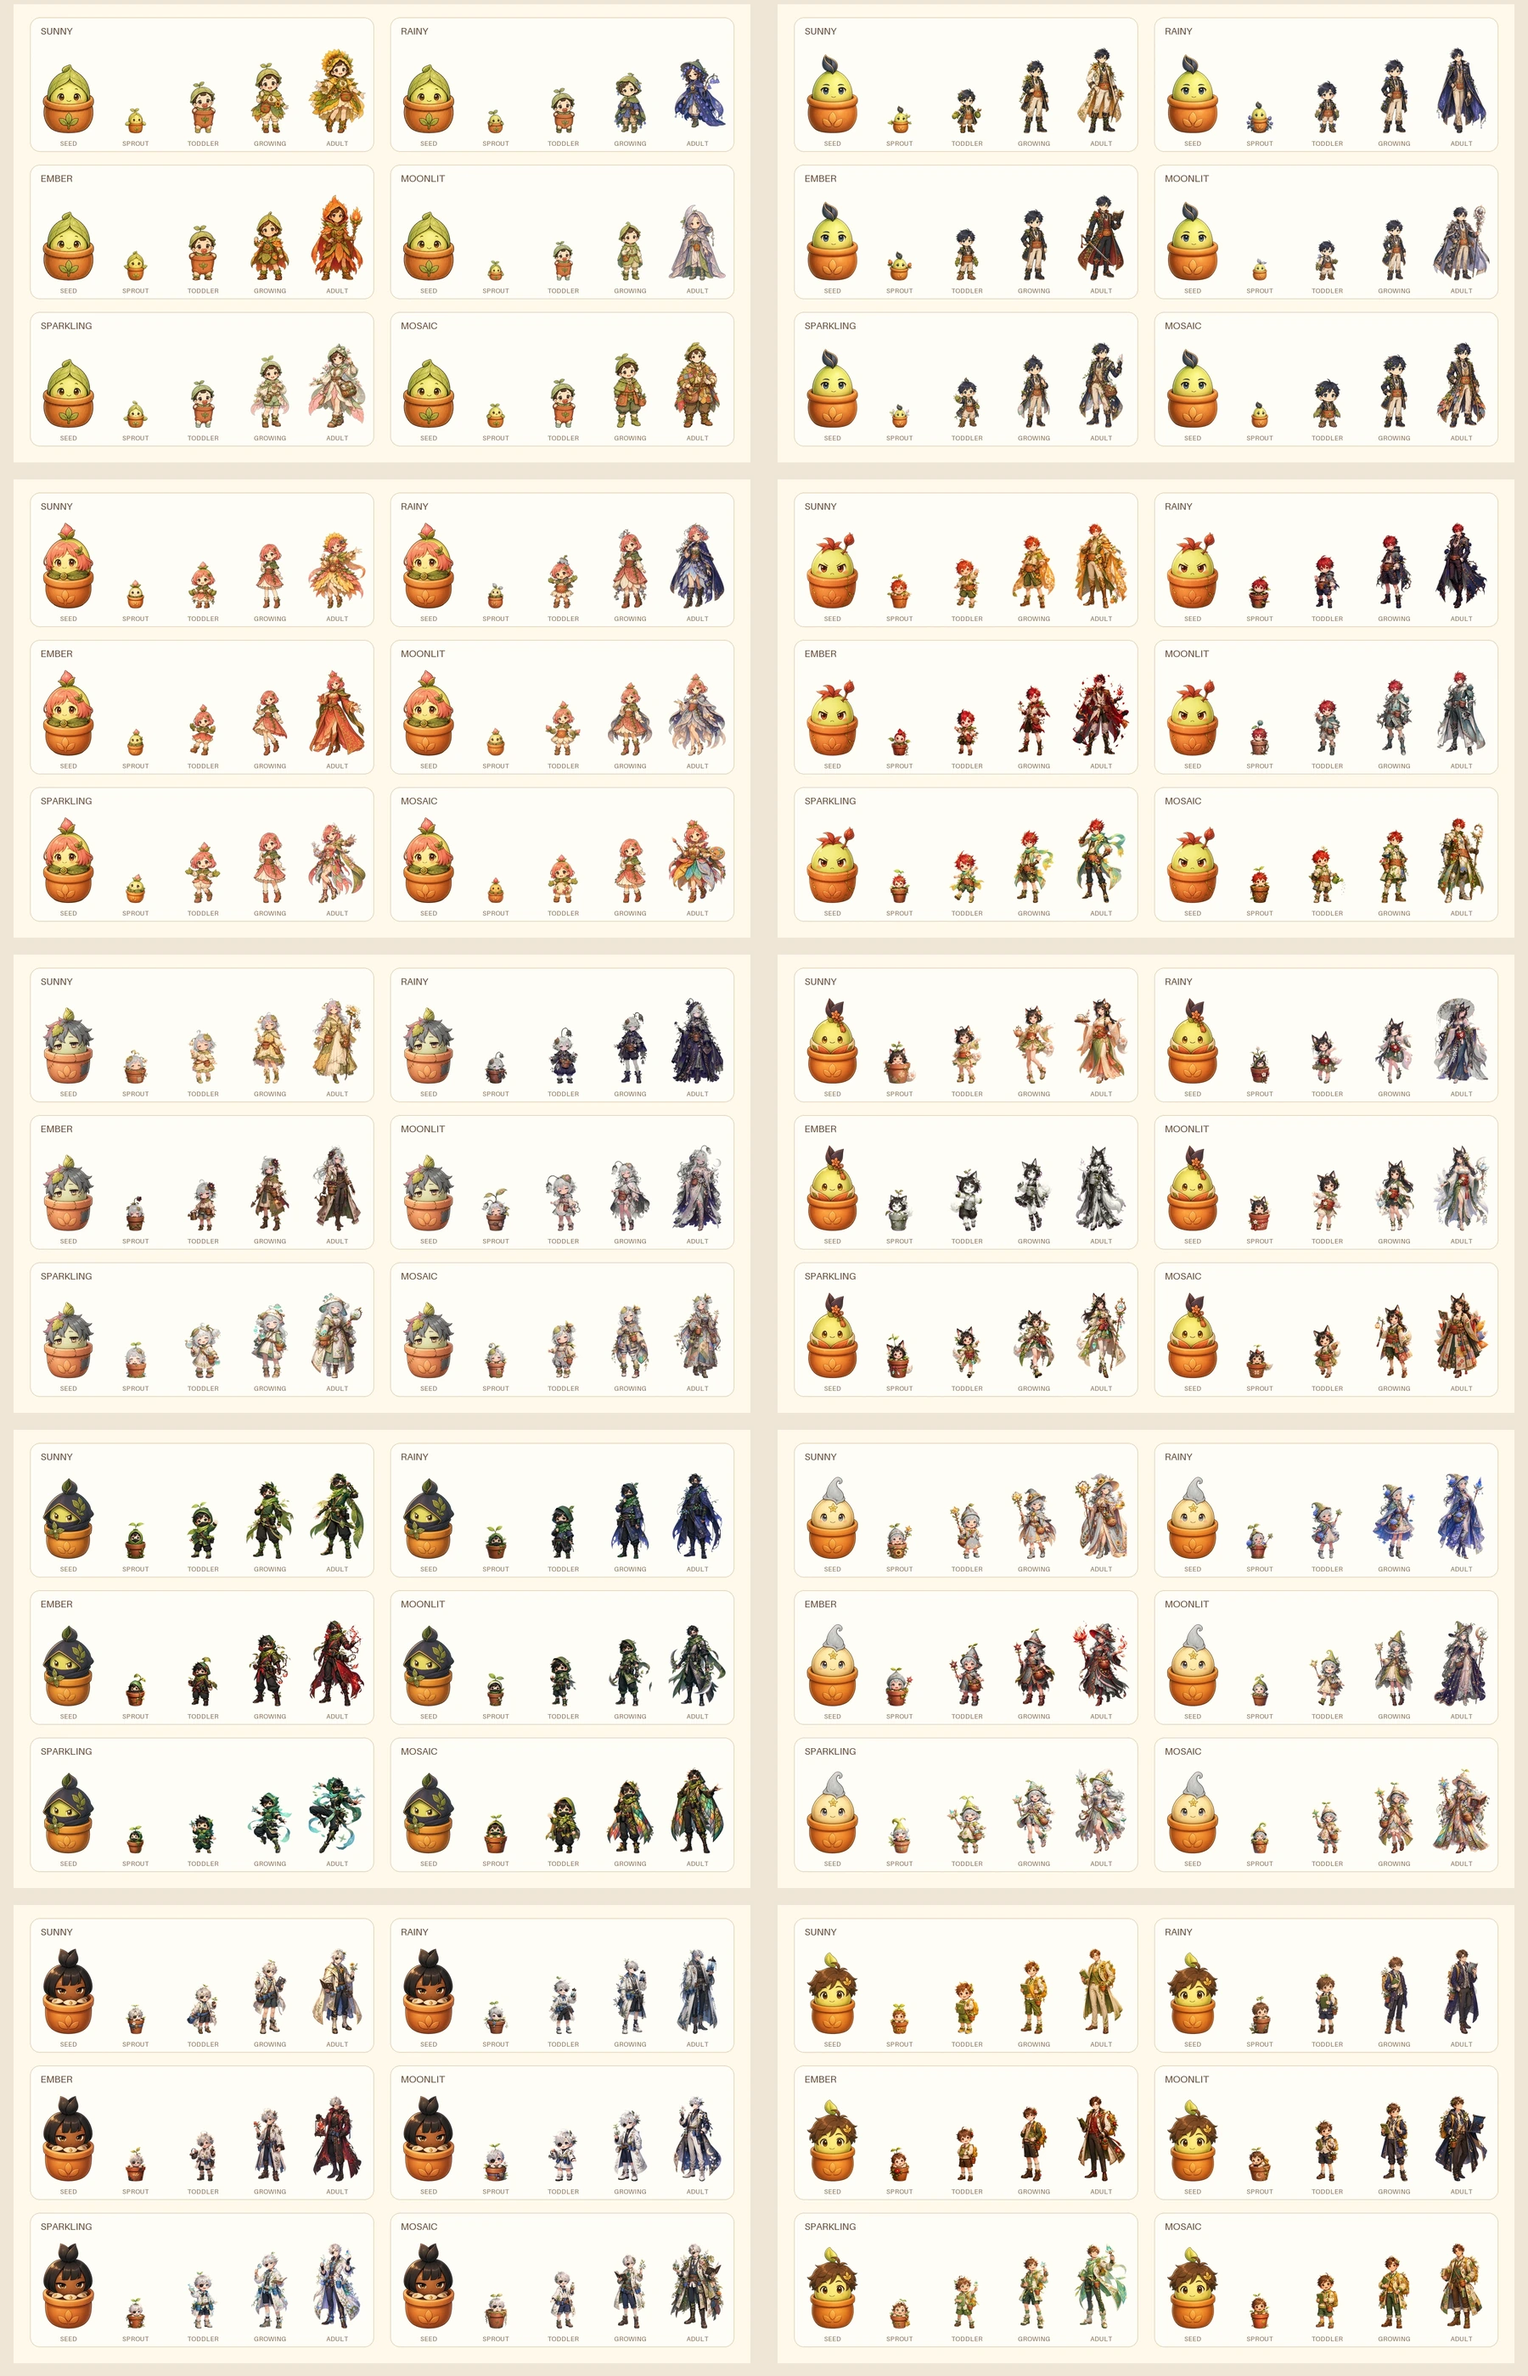
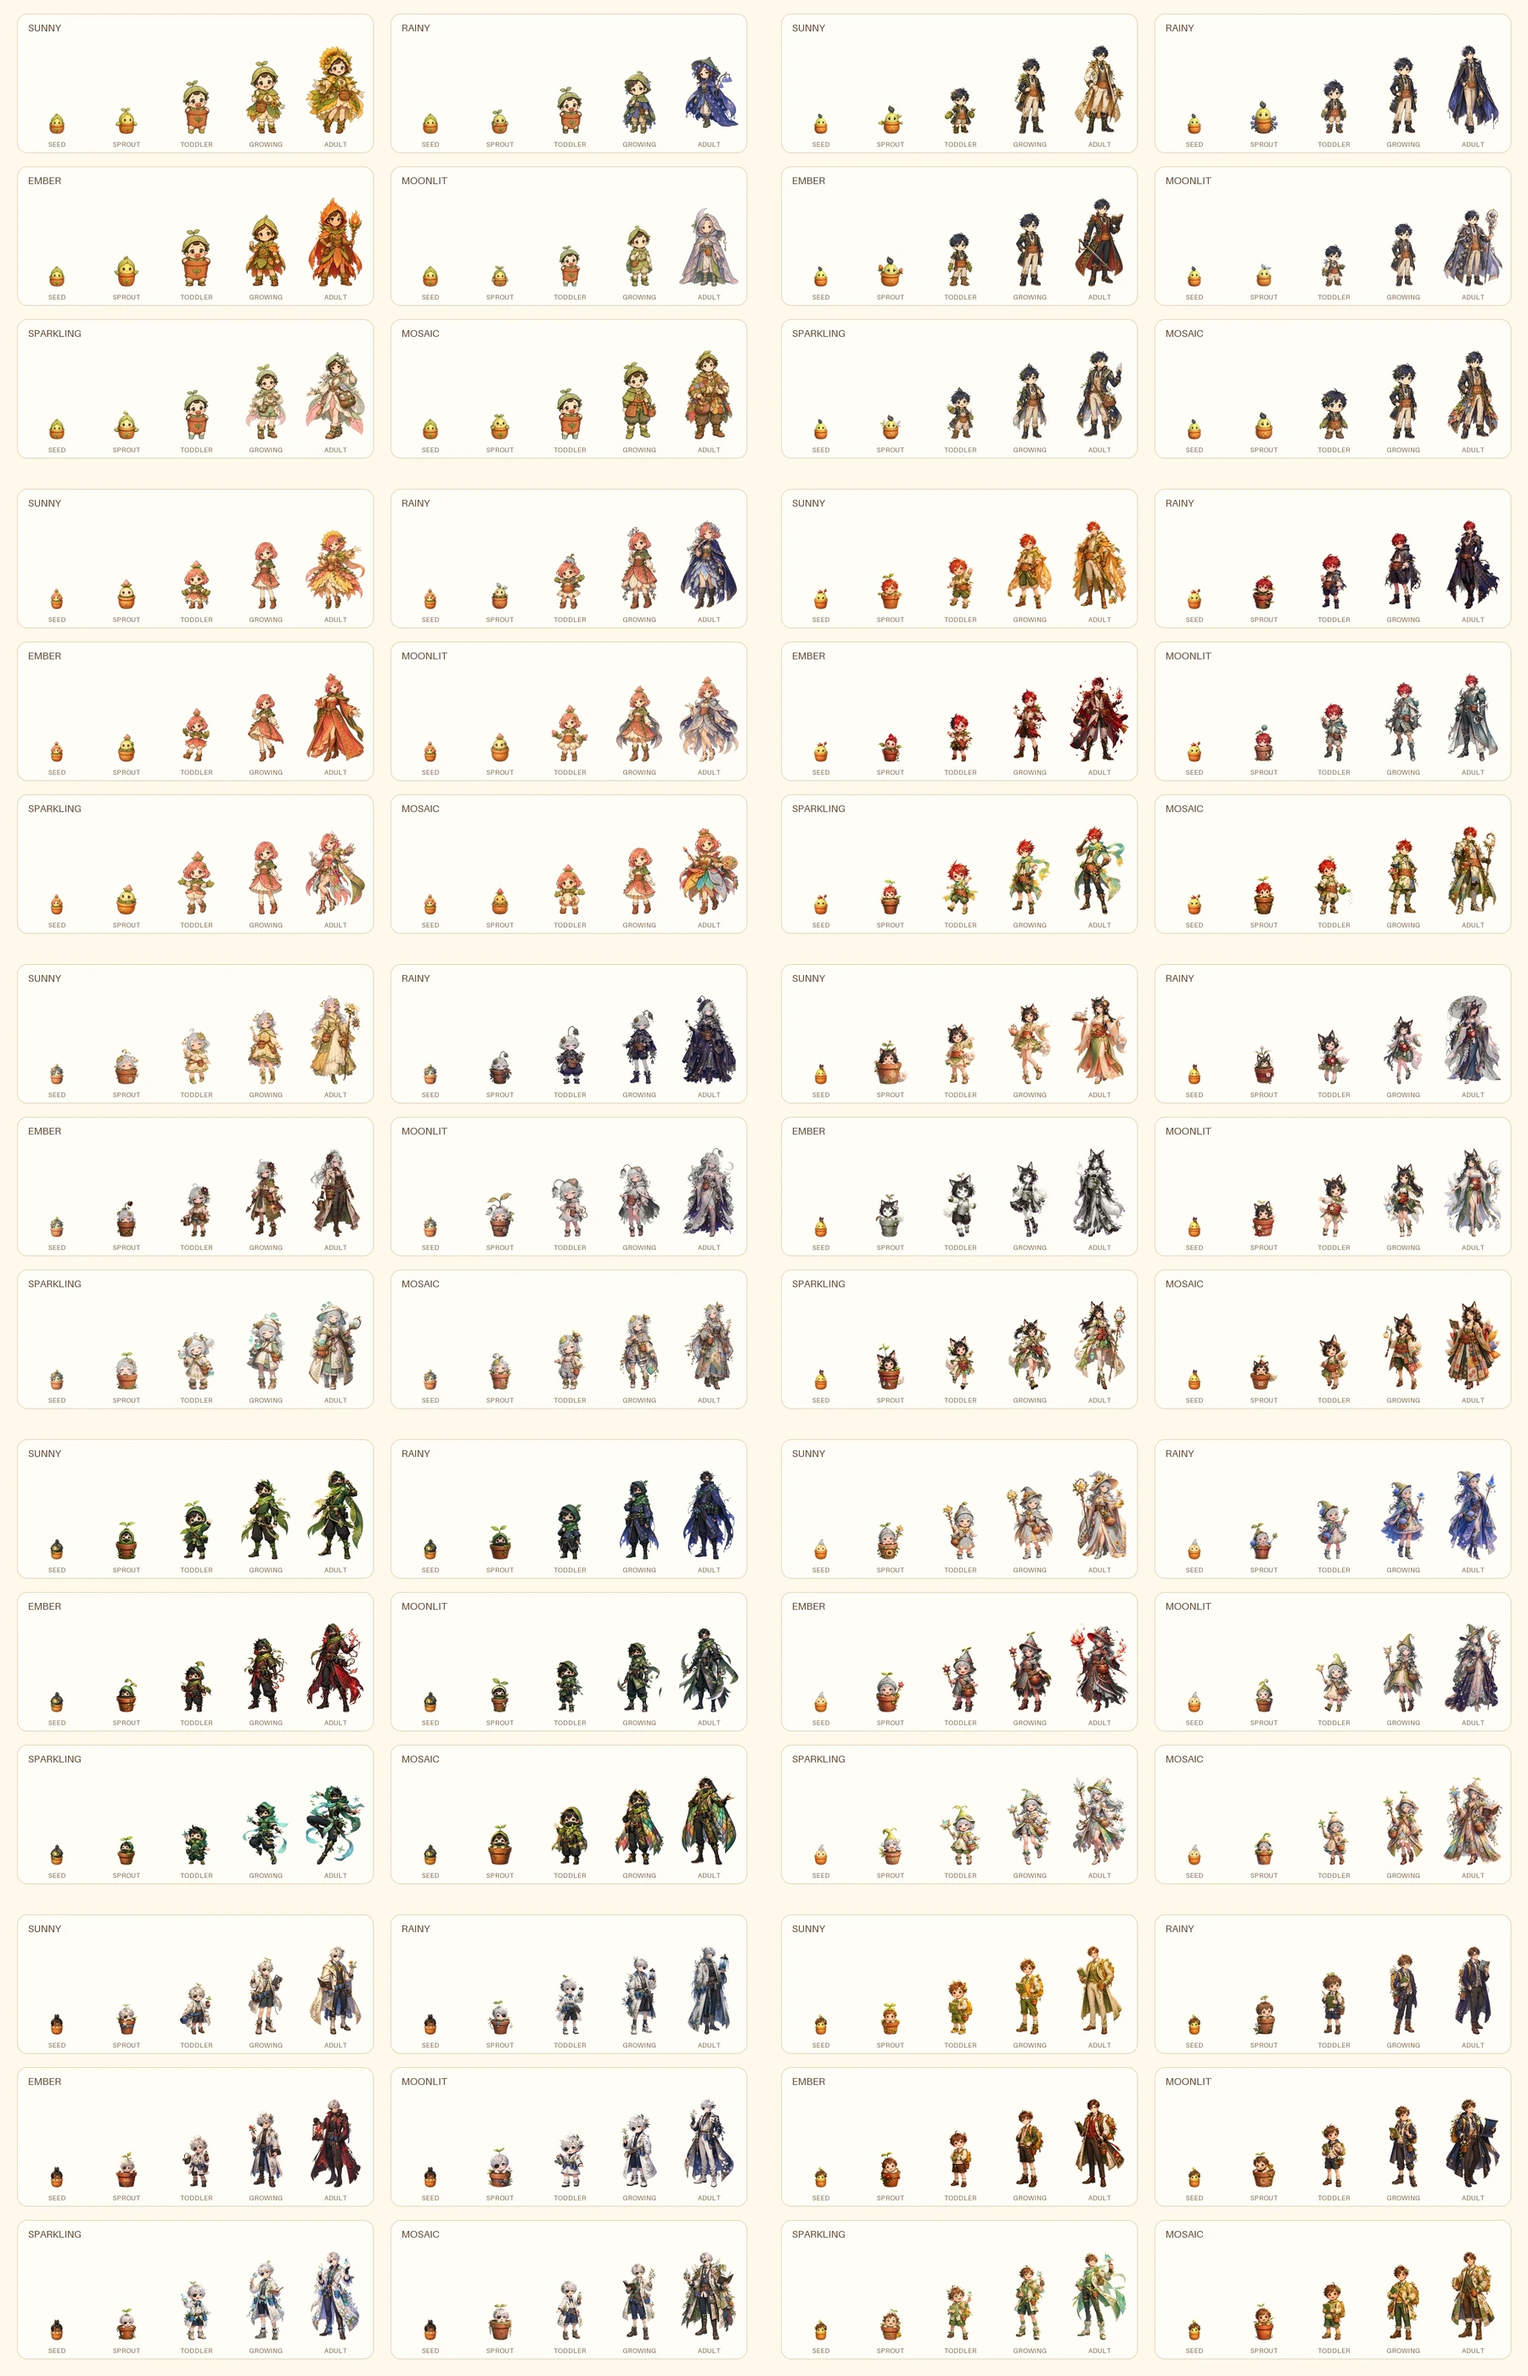
씨앗이 새싹보다 크게 그려져 성장이 거꾸로 읽히던 것을 고침
홈에서 씨앗 단계를 보면 화분이 화면을 꽉 채운다. 일기를 써서 새싹이 되면
캐릭터가 3분의 1로 줄어든다. 도감과 연재 일지의 다섯 칸도 마찬가지라 첫 칸이
두 번째로 큰 그림이다. 자라는 이야기인데 자라면 작아진다.

**단계별 키를 재 보니 열여덟 품종 중 열둘이 어긋나 있었다.** 2~5단계는 어느
품종이든 단조 증가하는데 1단계만 다 자란 키의 0.81~1.12배다. 제대로 된 일곱
품종은 0.23~0.54배다.

원인은 원화 빌더다. 2~5단계는 시트 한 장에서 잘라 내니 칸 사이의 상대 키가
그림에 이미 들어 있다. 씨앗만 낱장으로 받는데 `build_character_lineages.py`가
그걸 캔버스에 꽉 차게(420x704) 키웠다. 낱장은 파일마다 인물이 캔버스를 채우도록
그려져서 상대 키 정보가 없으니 그렇게 하면 씨앗이 성인만 해진다.

나중에 만든 빌더 둘은 이미 이 함정을 알고 있었다.
`build_premium_character_v6_growth.py`의 `PHASE_HEIGHT_RATIO`에 `씨앗 0.23`이
적혀 있고 주석까지 남아 있다. 옛 빌더 둘만 그 규칙을 안 따랐다. 같은 값을
공용으로 꺼내 두 빌더에 붙이고 씨앗 열한 장을 다시 구웠다.

**같은 소스로 다시 구운 나머지 240장이 바이트까지 동일했다.** 빌더 수정이
씨앗 외에는 아무것도 안 건드린다는 뜻이라 그대로 씨앗만 교체했다. 이제 열여덟
품종 전부 다섯 단계가 단조 증가한다.

계보 미리보기 열한 장도 다시 뽑았다(README가 쓰는 그림이다). 모음 한 장은
만드는 스크립트가 없어서 손으로 붙여 온 것 같은데, 이번에 `--overview`로
빌더에 넣었다. 칸 순서는 매니페스트를 따르고, 옛 파일과 셀 단위로 대조해
같은 배치인 것을 확인했다.

diff --git a/design-system/scripts/build_character_lineages.py b/design-system/scripts/build_character_lineages.py
@@ -16,6 +16,7 @@ from build_growth_assets import (
     _render_asset,
     _route_scale,
     _split_route,
+    seed_scale,
 )
 
 
@@ -82,28 +83,33 @@ def _split_character_route(sheet: Image.Image) -> list[Image.Image]:
 
 
 def build_lineage(source_dir: Path, output_dir: Path, slug: str) -> None:
-    seed = Image.open(source_dir / slug / "shared-seed-v1-alpha.png").convert(
-        "RGBA"
-    )
-    seed = seed.crop(_alpha_bbox(seed))
-    _render_asset(
-        seed,
-        scale=min(420 / seed.width, 704 / seed.height),
-        output=output_dir / f"{slug}-25d-seed.webp",
-    )
-
+    full_bloom_heights: list[int] = []
     for form in FORMS:
         sheet = Image.open(
             source_dir / slug / f"{form}-route-chroma-v1-alpha.png"
         ).convert("RGBA")
         panels = _split_character_route(sheet)
         scale = _route_scale(panels)
+        full_bloom_heights.append(round(panels[-1].height * scale))
         for phase, panel in zip(PHASES, panels, strict=True):
             _render_asset(
                 panel,
                 scale=scale,
                 output=output_dir / f"{slug}-25d-{phase}-{form}.webp",
             )
+
+    # 씨앗 낱장은 캔버스를 채우도록 그려져 있다. 시트에서 뽑은 2~5단계와
+    # 같은 자리에 그대로 놓으면 씨앗이 다 자란 모습만 해지고, 홈·도감에서
+    # 씨앗 → 새싹으로 갈 때 캐릭터가 작아진다.
+    seed = Image.open(source_dir / slug / "shared-seed-v1-alpha.png").convert(
+        "RGBA"
+    )
+    seed = seed.crop(_alpha_bbox(seed))
+    _render_asset(
+        seed,
+        scale=seed_scale(seed, max(full_bloom_heights)),
+        output=output_dir / f"{slug}-25d-seed.webp",
+    )
 
 
 def build_preview(output_dir: Path, preview_path: Path, slug: str) -> None:
@@ -151,23 +157,67 @@ def build_preview(output_dir: Path, preview_path: Path, slug: str) -> None:
     canvas.save(preview_path, "WEBP", quality=92, method=6)
 
 
+def build_overview(
+    preview_dir: Path, slugs: list[str], output_path: Path
+) -> None:
+    """열 계보의 미리보기를 2열로 붙인 README용 한 장.
+
+    낱장 미리보기와 같은 그림을 절반 크기로 붙인다. 순서는 매니페스트를
+    따르므로 계보를 다시 구우면 이 장도 같은 자리에서 갱신된다.
+    """
+
+    if not slugs:
+        raise ValueError("overview requires at least one lineage")
+    first = Image.open(preview_dir / f"{slugs[0]}-growth-preview.webp")
+    cell = (first.width // 2, first.height // 2)
+    rows = (len(slugs) + 1) // 2
+    canvas = Image.new("RGB", (cell[0] * 2, cell[1] * rows), "#fff8ea")
+    for index, slug in enumerate(slugs):
+        sheet = Image.open(preview_dir / f"{slug}-growth-preview.webp").convert(
+            "RGB"
+        )
+        row, column = divmod(index, 2)
+        canvas.paste(
+            sheet.resize(cell, Image.Resampling.LANCZOS),
+            (column * cell[0], row * cell[1]),
+        )
+    output_path.parent.mkdir(parents=True, exist_ok=True)
+    canvas.save(output_path, "WEBP", quality=92, method=6)
+
+
 def main() -> None:
     parser = argparse.ArgumentParser()
     parser.add_argument("--manifest", type=Path, required=True)
     parser.add_argument("--source-dir", type=Path, required=True)
     parser.add_argument("--output-dir", type=Path, required=True)
     parser.add_argument("--preview-dir", type=Path)
+    parser.add_argument(
+        "--overview",
+        type=Path,
+        help="README용 계보 모음 한 장을 쓸 경로. --preview-dir와 함께 쓴다.",
+    )
     args = parser.parse_args()
     manifest = json.loads(args.manifest.read_text(encoding="utf-8"))
+    built: list[str] = []
     for lineage in manifest["lineages"]:
         slug = lineage["slug"]
         build_lineage(args.source_dir, args.output_dir, slug)
+        built.append(slug)
         if args.preview_dir is not None:
             build_preview(
                 args.output_dir,
                 args.preview_dir / f"{slug}-growth-preview.webp",
                 slug,
             )
+    if args.overview is not None:
+        if args.preview_dir is None:
+            parser.error("--overview는 --preview-dir가 있어야 만들 수 있어요.")
+        available = [
+            slug
+            for slug in built
+            if (args.preview_dir / f"{slug}-growth-preview.webp").exists()
+        ]
+        build_overview(args.preview_dir, available, args.overview)
 
 
 if __name__ == "__main__":

diff --git a/design-system/scripts/build_growth_assets.py b/design-system/scripts/build_growth_assets.py
@@ -19,6 +19,24 @@ FORMS = ("sunny", "rainy", "ember", "moonlit", "sparkling", "mosaic")
 PHASES = ("sprout", "branching", "bloom", "full-bloom")
 PREVIEW_PHASES = ("SEED", "SPROUT", "BRANCH", "BLOOM", "FULL")
 
+#: 만개 키를 1로 둔 씨앗 목표 키.
+#:
+#: 씨앗은 시트가 아니라 낱장으로 들어온다. 낱장은 파일마다 인물이 캔버스를
+#: 채우도록 그려져서 칸 사이의 상대 키 정보가 없고, 그대로 캔버스에 맞춰
+#: 키우면 씨앗이 성인만 해진다. 그러면 홈과 도감에서 씨앗 → 새싹으로 갈 때
+#: 캐릭터가 오히려 작아진다.
+#:
+#: 값은 `build_premium_character_v6_growth.PHASE_HEIGHT_RATIO["seed"]`와
+#: 같다 — 사람형 계보 둘의 실측 평균이다.
+SEED_HEIGHT_RATIO = 0.23
+
+
+def seed_scale(seed: Image.Image, full_bloom_height: int) -> float:
+    """만개 키를 기준으로 씨앗 배율을 정한다. 입력은 이미 crop된 원본이다."""
+
+    target = max(1, round(full_bloom_height * SEED_HEIGHT_RATIO))
+    return target / seed.height
+
 
 def _alpha_bbox(image: Image.Image) -> tuple[int, int, int, int]:
     bbox = image.getchannel("A").getbbox()
@@ -108,33 +126,37 @@ def _route_scale(panels: list[Image.Image]) -> float:
 
 
 def build(alpha_dir: Path, output_dir: Path) -> None:
-    for source_name, asset_name in (
-        ("shared-seed-v2-alpha.png", "basic-sprout-25d-seed.webp"),
-        (
-            "shared-sprout-v2-alpha.png",
-            "basic-sprout-25d-sprout.webp",
-        ),
-    ):
-        shared = Image.open(alpha_dir / source_name).convert("RGBA")
-        shared = shared.crop(_alpha_bbox(shared))
-        shared_scale = min(420 / shared.width, 704 / shared.height)
-        _render_asset(
-            shared,
-            scale=shared_scale,
-            output=output_dir / asset_name,
-        )
-
+    full_bloom_heights: list[int] = []
     for form in FORMS:
         sheet_path = alpha_dir / f"{form}-route-chroma-v2-alpha.png"
         sheet = Image.open(sheet_path).convert("RGBA")
         panels = _split_route(sheet)
         scale = _route_scale(panels)
+        full_bloom_heights.append(round(panels[-1].height * scale))
         for phase, panel in zip(PHASES, panels, strict=True):
             _render_asset(
                 panel,
                 scale=scale,
                 output=output_dir / f"basic-sprout-25d-{phase}-{form}.webp",
             )
+
+    sprout = Image.open(alpha_dir / "shared-sprout-v2-alpha.png").convert("RGBA")
+    sprout = sprout.crop(_alpha_bbox(sprout))
+    _render_asset(
+        sprout,
+        scale=min(420 / sprout.width, 704 / sprout.height),
+        output=output_dir / "basic-sprout-25d-sprout.webp",
+    )
+
+    # 씨앗은 다 자란 키를 기준으로 줄인다. 캔버스에 맞춰 키우면 새싹보다
+    # 커져서 성장이 거꾸로 읽힌다.
+    seed = Image.open(alpha_dir / "shared-seed-v2-alpha.png").convert("RGBA")
+    seed = seed.crop(_alpha_bbox(seed))
+    _render_asset(
+        seed,
+        scale=seed_scale(seed, max(full_bloom_heights)),
+        output=output_dir / "basic-sprout-25d-seed.webp",
+    )
 
 
 def build_preview(output_dir: Path, preview_path: Path) -> None:
